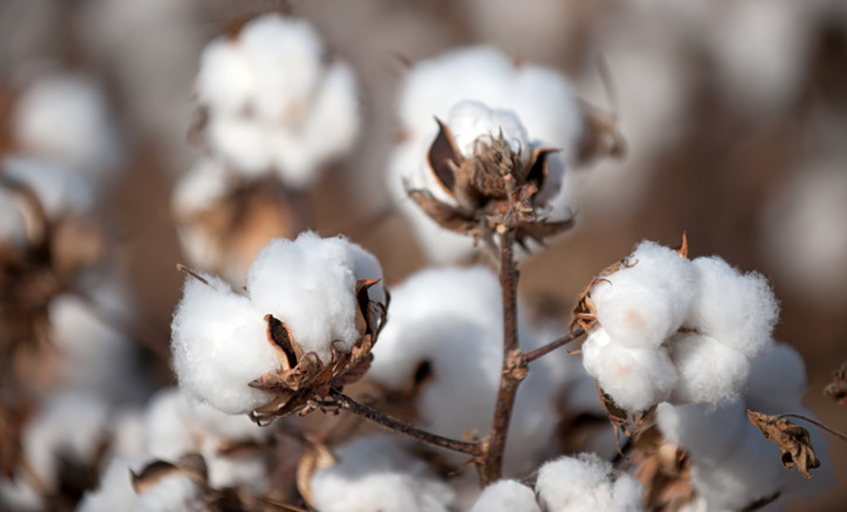
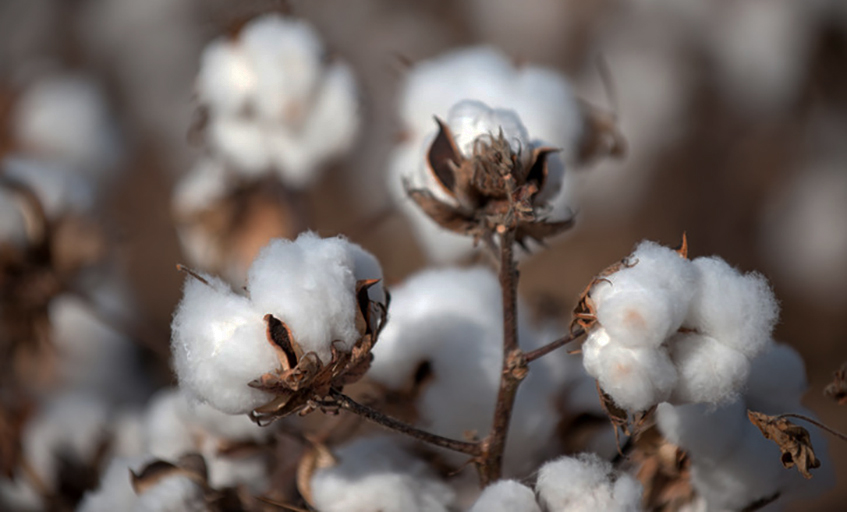
fix images brightness

diff --git a/static/js/functions.js b/static/js/functions.js
@@ -1,14 +1,14 @@
 /*-----------------------------TRIANGLE---------------------------------------*/
 /*Triangle backgrounds*/
 function restoreTriangleBackground(fullImage){
-  fullImage[0].setAttribute('href', 'img/materials/bark.jpeg');
+  fullImage[0].setAttribute('href', 'img/materials/bark.jpg');
   fullImage[1].setAttribute('href', 'img/materials/pet.jpg');
   fullImage[2].setAttribute('href', 'img/materials/cotton.jpg');
   fullImage[2].setAttribute('preserveAspectRatio', "xMaxYMax slice");
 }
 function fullLyocellBackground(fullImage){
   fullImage.forEach(function(imagePart){
-    imagePart.setAttribute('href', 'img/materials/bark.jpeg');
+    imagePart.setAttribute('href', 'img/materials/bark.jpg');
   });
   fullImage[2].setAttribute('preserveAspectRatio', "xMidYMid slice");
 }

diff --git a/index.html b/index.html
@@ -81,7 +81,7 @@
 
         <div class="col-md-10 offset-md-1 mt-5" id="materialTriangle">
           <svg class="" id="triangleSVG" viewBox="0 0 100 100" preserveAspectRatio="none">
-            <image clip-path="url(#topImage)" width="100%" height="100%" href="img/materials/bark.jpeg" preserveAspectRatio="xMidYMid slice"></image>
+            <image clip-path="url(#topImage)" width="100%" height="100%" href="img/materials/bark.jpg" preserveAspectRatio="xMidYMid slice"></image>
             <image clip-path="url(#leftImage)" width="100%" height="100%" href="img/materials/pet.jpg" preserveAspectRatio="xMidYMid slice"></image>
             <image clip-path="url(#rightImage)" width="100%" height="100%" href="img/materials/cotton.jpg" preserveAspectRatio="xMaxYMax slice"></image>
 

diff --git a/static/css/main.css b/static/css/main.css
@@ -210,16 +210,3 @@ nav {
   text-align: left;
   transform: scale(.65);
 }
-
-
-
-
-
-
-
-
-
-
-#triangleSVG > image{
-  filter: brightness(75%);
-}
